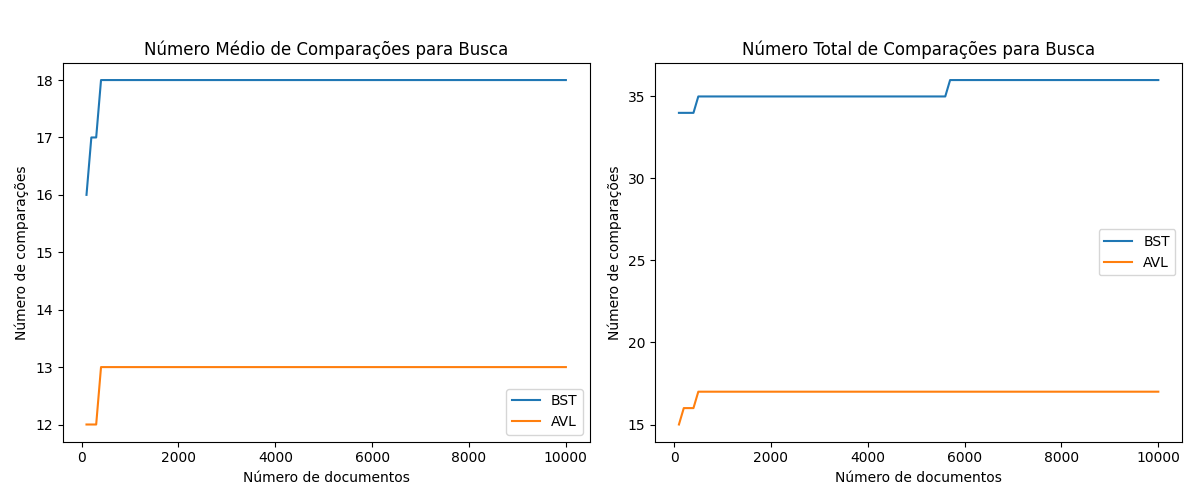
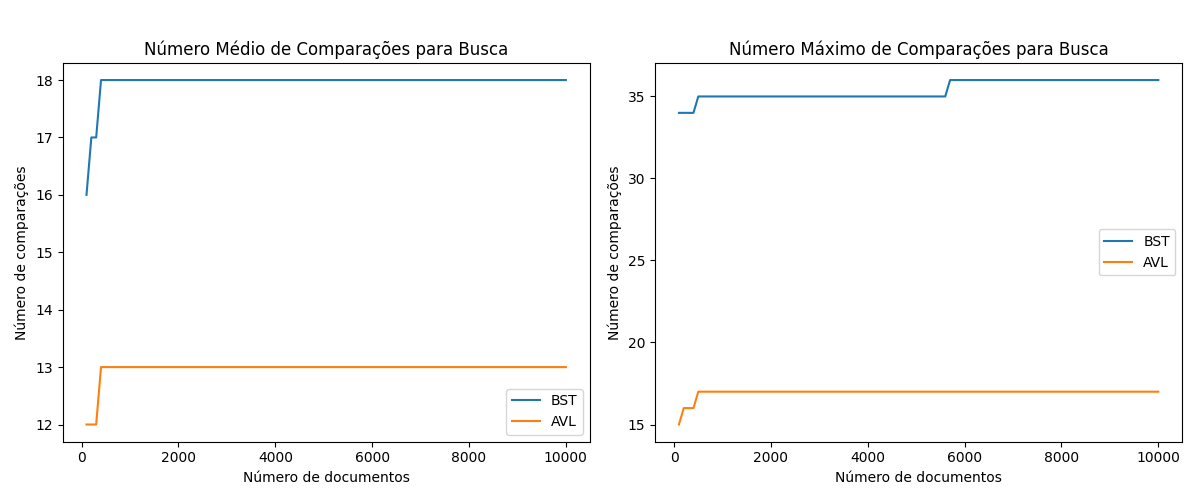
rename columns

Changed region(s): [[0.5858, 0.09, 0.925, 0.12]]

diff --git a/docs/visualizations.py b/docs/visualizations.py
@@ -30,22 +30,27 @@ def save_simple_graph(col_name, title):
     plt.savefig(f'docs/graphs/grafico_{col_name}.png')
     plt.close()
 
-def save_double_graph(col_name_1, col_name_2, pre, title, path):
+def save_double_graph(col_name_1, col_name_2, pre, mid, title, path):
     _, axes = plt.subplots(1, 2, figsize=(12, 5))  
     if pre == "Tempo":
         plot_graph(axes[0], col_name_1, pre + " Médio " + title, "Tempo (em milissegundos)")
-        plot_graph(axes[1], col_name_2, pre + " Total " + title, "Tempo (em milissegundos)")
+        plot_graph(axes[1], col_name_2, pre + " " + mid + " " + title, "Tempo (em milissegundos)")
     elif pre == "Número":
         plot_graph(axes[0], col_name_1, pre + " Médio " + title, "Número de comparações")
-        plot_graph(axes[1], col_name_2, pre + " Total " + title, "Número de comparações")
+        plot_graph(axes[1], col_name_2, pre + " " + mid + " " + title, "Número de comparações")
     plt.tight_layout(rect=[0, 0, 1, 0.95])
     plt.savefig(f'docs/graphs/grafico_{path}.png')
     plt.close()
 
-save_double_graph(col_names[0], col_names[1], pre="Tempo", title="de Inserção de uma Palavra", path="ExecutionTimeInsertion")
-save_double_graph(col_names[2], col_names[3], pre="Tempo", title="de Busca de uma Palavra", path="ExecutionTimeSearch")
-save_double_graph(col_names[4], col_names[5], pre="Número", title="de Comparações para Inserção", path="NumComparisonsInsertion")
-save_double_graph(col_names[6], col_names[7], pre="Número", title="de Comparações para Busca", path="NumComparisonsSearch")
+save_double_graph(col_names[0], col_names[1], pre="Tempo", mid="Total", 
+                  title="de Inserção de uma Palavra", path="ExecutionTimeInsertion")
+save_double_graph(col_names[2], col_names[3], pre="Tempo", mid="Máximo", 
+                  title="de Busca de uma Palavra", path="ExecutionTimeSearch")
+save_double_graph(col_names[4], col_names[5], pre="Número", mid="Total", 
+                  title="de Comparações para Inserção", path="NumComparisonsInsertion")
+save_double_graph(col_names[6], col_names[7], pre="Número", mid="Máximo", 
+                  title="de Comparações para Busca", path="NumComparisonsSearch")
+
 save_simple_graph(col_names[8], title="Altura da Árvore")
 save_branch_graph(col_names[9], col_names[10], "Comparação maior e menor galho")
 save_simple_graph(col_names[11], title="Número de nós")

diff --git a/src/export_stats.cpp b/src/export_stats.cpp
@@ -15,9 +15,9 @@ void exportToCSV(const std::vector<stats::TreeStats> &stats,
   // Cabeçalho
   arquivo << "N_docs,"
              "ExecutionTimeInsertionMean,ExecutionTimeInsertionTotal,"
-             "ExecutionTimeSearchMean,ExecutionTimeSearchTotal,"
+             "ExecutionTimeSearchMean,ExecutionTimeSearchMax,"
              "NumComparisonsInsertionMean,NumComparisonsInsertionTotal,"
-             "NumComparisonsSearchMean,NumComparisonsSearchTotal,"
+             "NumComparisonsSearchMean,NumComparisonsSearchMax,"
              "TreeHeight,MaxBranch,MinBranch,"
              "NumNodes\n";
 
